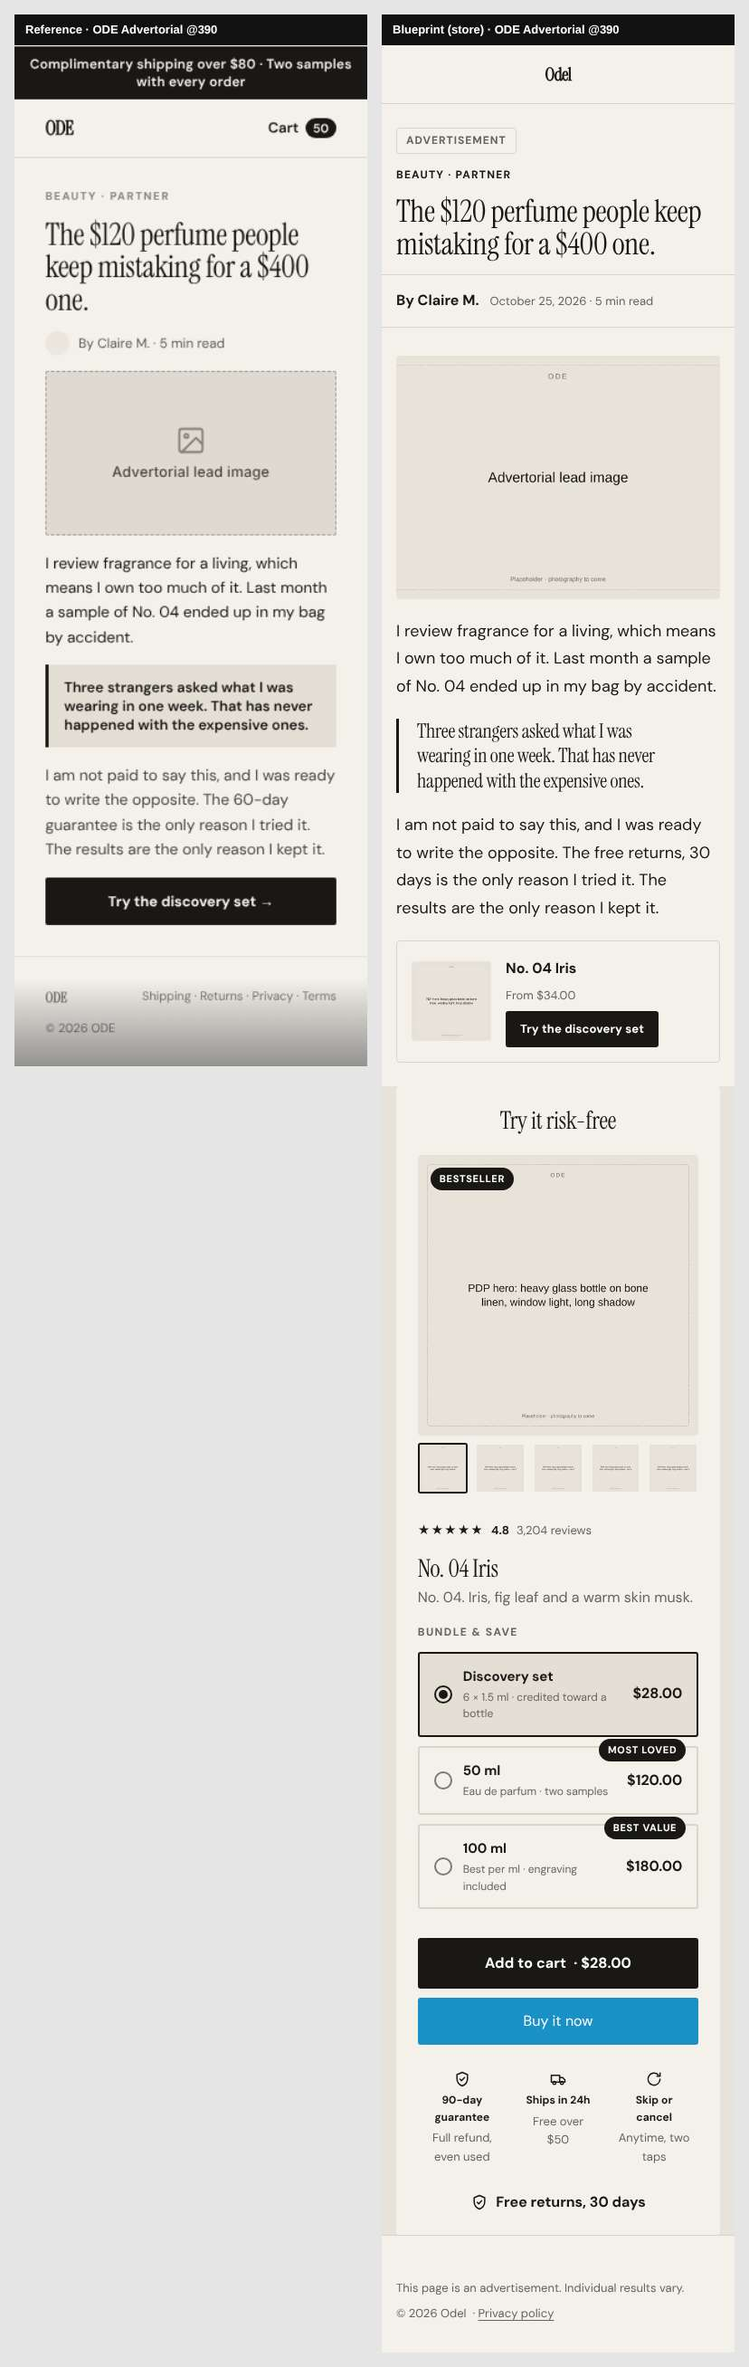
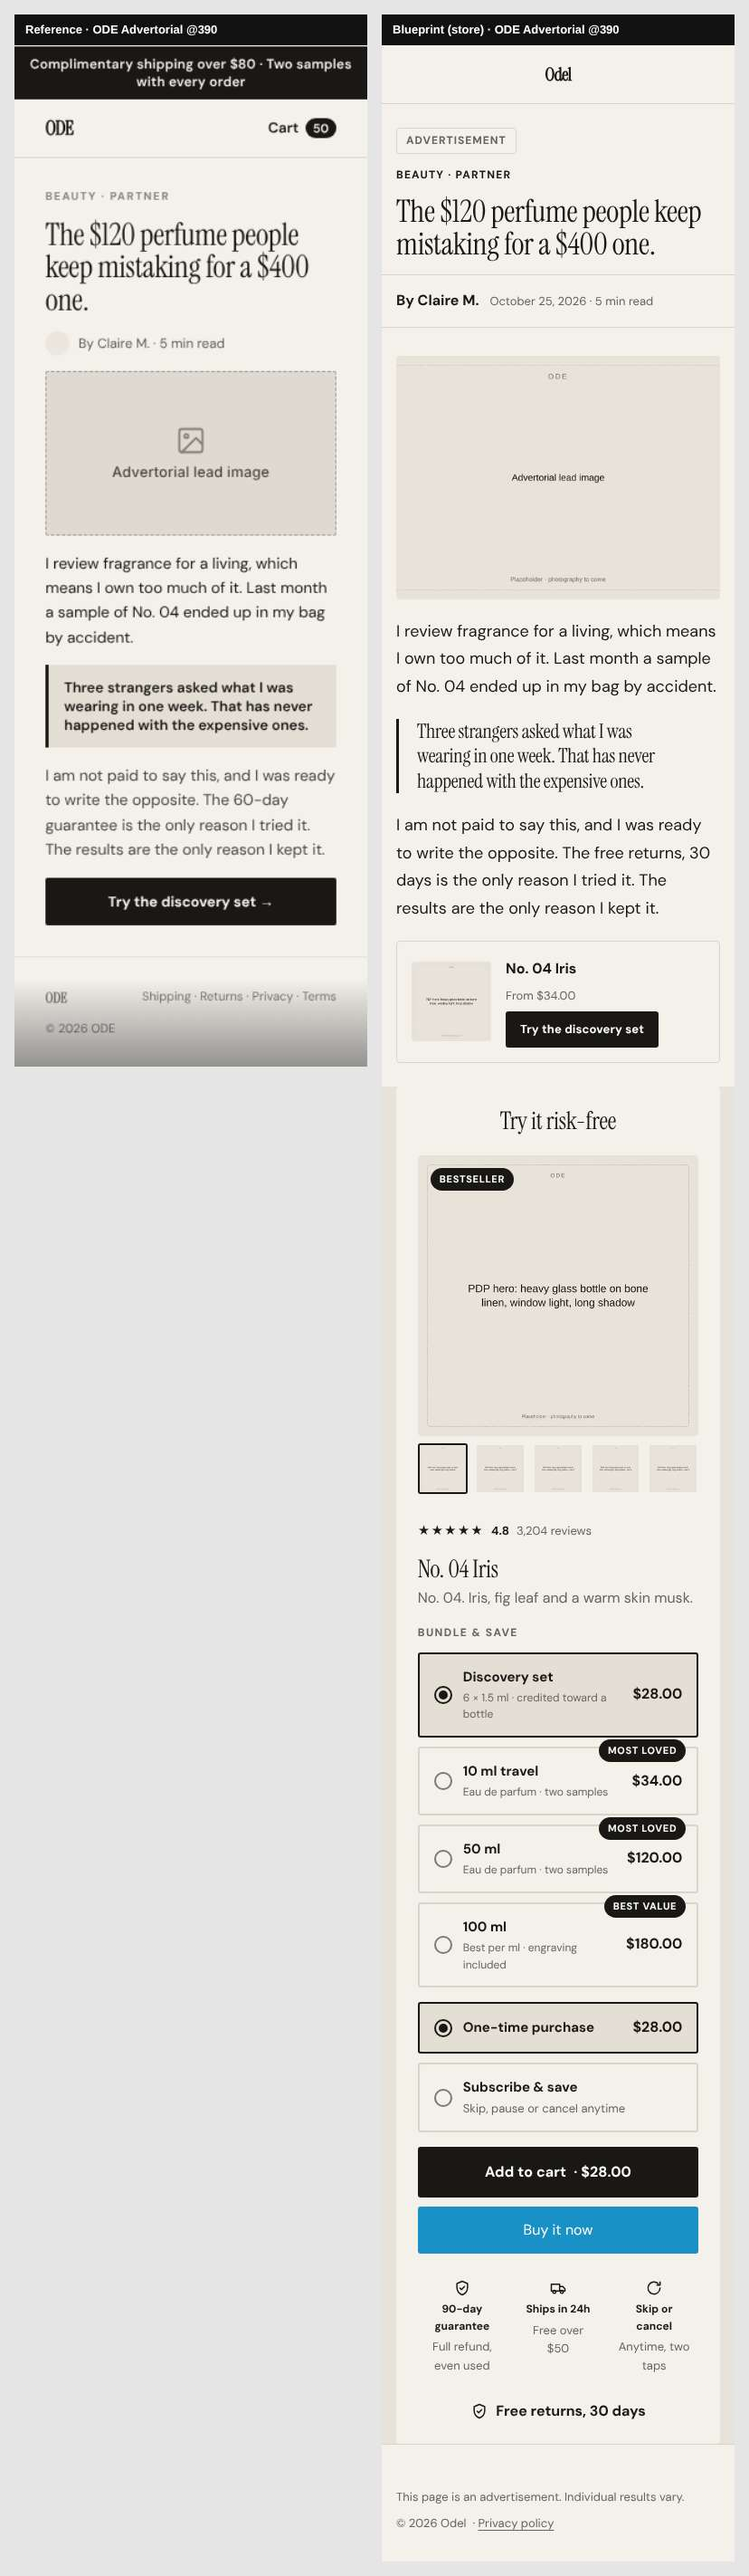
Fix the remaining demo differences from the reference
- Subscription: the catalog falls back to the reference's "Subscribe & save
  15%" (its shared product template offers it to every store) when a store's
  own copy states no saving. Ode now has a real 15% selling plan.
- Ode's 10 ml travel size: the reference shows it in a size picker next to
  tiers that leave it out; in Blueprint the tiers are the size picker, so it
  couldn't be bought. It joins the tiers in picker order (tier 1, which Ode's
  templates link to, is unchanged; 50 ml stays preselected).
- Footer: demo builds drop footer text blocks still on the theme default, as
  the reference's footer has no about copy.
- Placeholders: labels stay inside the area a 4:5 crop keeps;
  --refresh-images re-renders them and replaces them in place (fileUpdate).
- Seed: metaobject upserts clear fields the catalog leaves out, so a re-run
  converges (the 10 ml tier had inherited the old 50 ml subtitle and badge).
- Preview mock kept in step; store checklist Verde 61/61, Ode 63/63,
  Rawform 60/60; comparisons recaptured.

Claude-Session: https://claude.ai/code/session_01425NWhiXu5kRfY1i3LoUy5

diff --git a/docs/PLAN.md b/docs/PLAN.md
@@ -178,11 +178,12 @@ The first run against the three development stores, with the seed app's credenti
     - Unit tests cover it, and the store checklist reports the note.
     - This also covers a gift whose discount the merchant forgot to create.
   - `docs/merchant/cart-setup.md` warns about overlapping gifts.
-- **Visual comparison** (`docs/screenshots/store/`, 30 composites, reference vs store at 390 and 1440): the stores follow the reference's content and order. Differences noted:
-  - Ode has no subscription plan, so no subscribe option. The reference shows "Subscribe & save 15%", but the seed adds a plan only where the reference states a saving.
-  - Ode shows its sizes as bundle tiers, without the reference's separate size picker.
-  - The footer's "About us" column shows its default text.
-  - Placeholder images crop their label text in wide hero frames.
+- **Visual comparison** (`docs/screenshots/store/`, 30 composites, reference vs store at 390 and 1440). The stores follow the reference's content and order. The differences found have all been fixed:
+  - **Subscription for every store.** Ode had no subscription option, while the reference offers "Subscribe & save 15%". That toggle is part of the reference's shared product template (for Ode it even shows "$2 each"). The catalog now falls back to the reference's 15% when a store's own copy states no saving. Ode, and the optional stores without their own figure, get a real 15% selling plan, so prices still come from Shopify.
+  - **Ode's 10 ml travel size.** The reference shows a size picker (10 ml travel, 50 ml, 100 ml) next to tiers that leave out 10 ml. In Blueprint the tiers are the size picker, so 10 ml couldn't be bought at all. It now joins the tiers in picker order: Discovery set, 10 ml travel, 50 ml (preselected, "Most loved"), 100 ml. It has no subtitle, because the reference gives it none. Ode's templates only link to tier 1, which is unchanged.
+  - **Footer.** The reference's footer has no "about" copy. The demo build drops footer text blocks still on the theme's default ("Tell customers what your brand stands for"). The default itself stays in the theme for merchants to replace.
+  - **Placeholder labels.** Labels now stay inside the area any crop down to 4:5 keeps: the middle three-quarters of the height on landscape images. A unit test covers it.
+    - `--refresh-images` on the seed re-renders placeholders and replaces them in place with `fileUpdate`, so every product and section using them updates.
 
 #### Phase 8 delivered
 

diff --git a/docs/demo-stores.md b/docs/demo-stores.md
@@ -76,6 +76,7 @@ node tools/demo/theme.mjs verde --push        # push the demo theme as an unpubl
 ```
 
 - **Steps:** run a subset with `--steps=products,metafields`, or skip some with `--skip=files`.
+- **Images:** existing placeholders are kept. `--refresh-images` re-renders them and replaces them in place, so the products and sections using them update.
 - **Order:** shop, definitions, files, collections, products, metaobjects, metafields, selling plans, publish, pages, menus, discounts.
 - **Publishing the theme:** do it by hand in the admin (Online Store → Themes), after a look in the theme editor.
 
